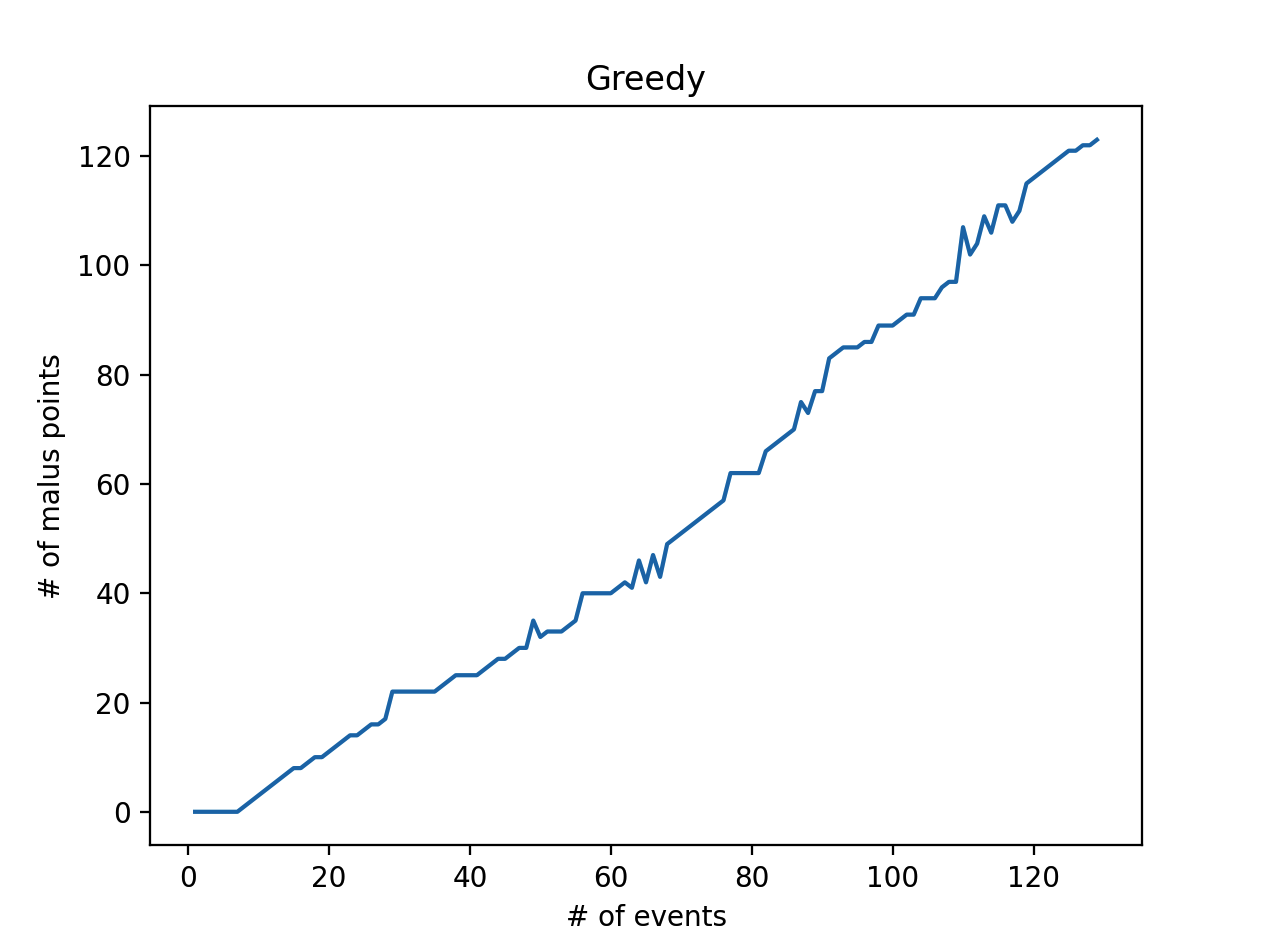
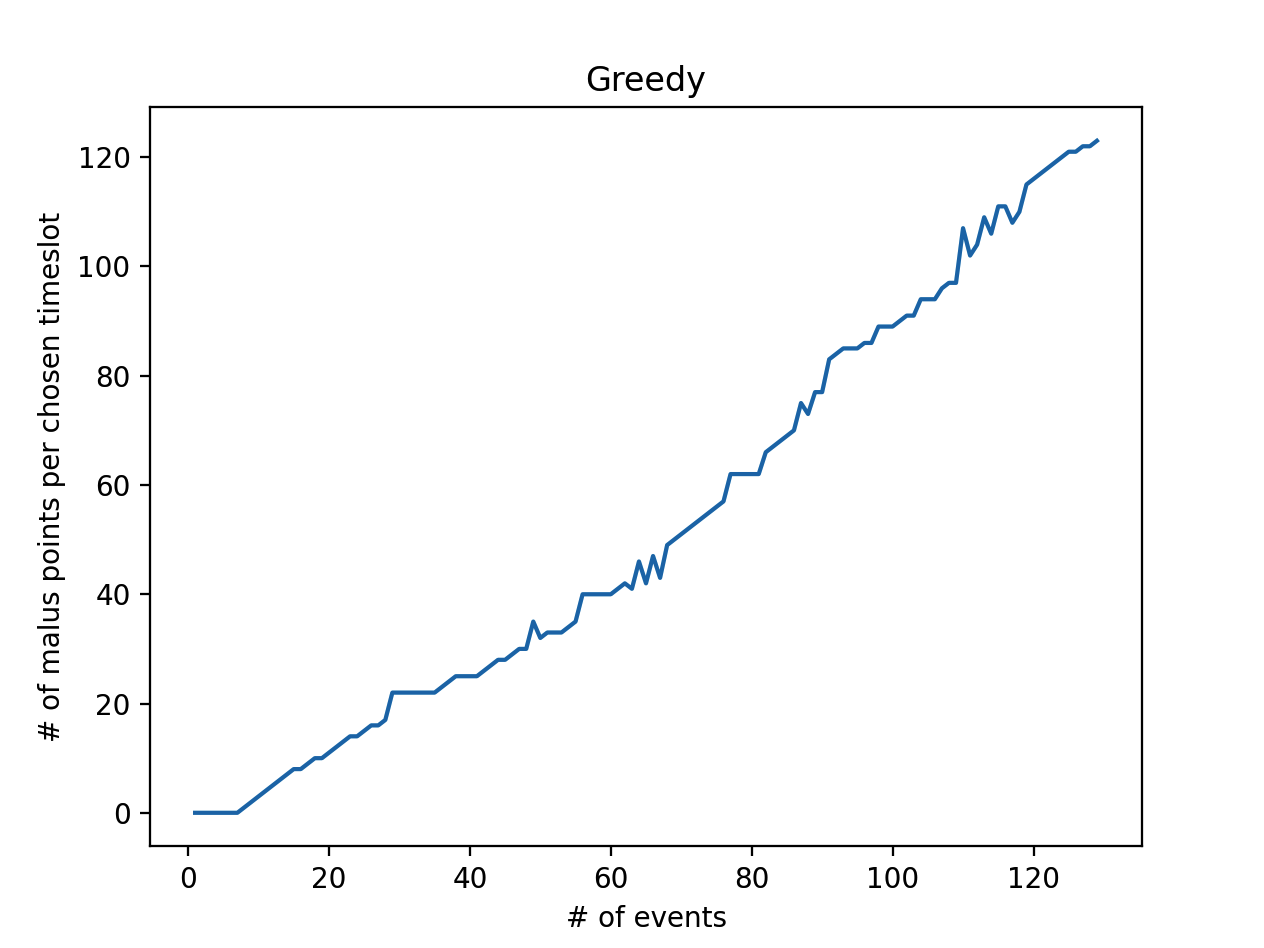
fix: adjust incorrect timeslot check for 17 timeframe; improved greedy results

diff --git a/code/algorithms/greedy.py b/code/algorithms/greedy.py
@@ -30,7 +30,7 @@ class Greedy(Algorithm):
         Plot the malus scores that we gathered when the algortihm ran.
         """
         plt.xlabel('# of events')
-        plt.ylabel('# of malus points')
+        plt.ylabel('# of malus points per chosen timeslot')
 
         scores = [stat['malus_score'] for stat in self.statistics]
         total_events = len(scores)
@@ -200,20 +200,12 @@ class RandomGreedy(Greedy):
     rather than the best one.
     """
 
-    def get_next_event(self, events: list[Event]) -> Event:
-        """
-        Get a random item from the events list.
-        """
-        if random.random() < 0.01:
-            return events.pop(random.randrange(len(events)))
-        else:
-            return super().get_next_event(events)
-
     def find_timeslot_possibility(self, event: Event) -> dict[str, Any]:
         """
         Get a random possible timeslot option.
         """
-        if random.random() < 0.01:
-            return random.choice(self.get_possibilities(event))
+        possibilities = [p for p in self.get_possibilities(event) if p['malus_score'] == 0]
+        if len(possibilities) > 0:
+            return random.choice(possibilities)
         else:
             return super().find_timeslot_possibility(event)

diff --git a/code/algorithms/hillclimber.py b/code/algorithms/hillclimber.py
@@ -1,7 +1,7 @@
 import copy
 import logging
 import random
-from code.algorithms.greedy import Greedy
+from code.algorithms.greedy import RandomGreedy
 import matplotlib.pyplot as plt
 
 from code.entities.event import Event
@@ -10,10 +10,10 @@ from code.entities.timetable import Timetable
 from code.utils.enums import Weekdays
 
 
-class HillClimber(Greedy):
+class HillClimber(RandomGreedy):
     """
     Hill climber algorithm implementation which grabs a random state and accepts
-    it if it better than the previous state.
+    it if it is equally good or better than the previous state.
     """
 
     def __init__(self) -> None:
@@ -51,8 +51,9 @@ class HillClimber(Greedy):
         y = [stat['violations'] + stat['malus_score'] for stat in self.statistics]
         plt.plot(x, y)
 
+        lowest_malus_score = min([stat['malus_score'] for stat in self.statistics])
         parent_class_name = self.__class__.__bases__[0].__name__
-        plt.title(f'Hill climber based on {parent_class_name} solution')
+        plt.title(f'Hill climber based on {parent_class_name} solution (iterations = {max(x)}; malus score = {lowest_malus_score})')
         plt.show()
 
     def move_random_event(self) -> None:

diff --git a/code/entities/timeslot.py b/code/entities/timeslot.py
@@ -101,8 +101,9 @@ class Timeslot:
         """
         points = 0
 
-        # The 17:00 - 19:00 timeslot adds 5 malus points.
-        if self.value == 17:
+        # The 17:00 timeslot adds 5 points if the largest room is booked.
+        largest_rooms = [event.room.is_largest for event in self.events]
+        if self.value == 17 and any(largest_rooms):
             points += 5
 
         # Add one malus punt for each overlapping course each student has.

diff --git a/docs/3-greedy-algorithm/README.md b/docs/3-greedy-algorithm/README.md
@@ -2,9 +2,8 @@
 
 Na een implementatie te hebben afgerond voor een random algoritme, is het nu
 tijd om een greedy implementatie te doen. Ik heb er voor gekozen om een
-constructief greedy algoritme te implementeren, omdat het hier bij een
-lesrooster handiger is om alle mogelijke opties af te gaan en dan te zien welke
-de minste maluspunten heeft.
+constructief greedy algoritme te implementeren, omdat voor mijn gevoel dit voor
+de meest hand liggende keuze is.
 
 De pseudo code voor mijn constructieve algoritme is als volgt:
 -  haal alle activiteiten op die ingepland moeten worden van alle vakken
@@ -12,7 +11,7 @@ De pseudo code voor mijn constructieve algoritme is als volgt:
    vak)
 -  zolang er activiteiten zijn die ingeplant moeten worden:
     - pak de eerste activiteit
-    - vind het beste tijdslot (oplopend gesorteerd op aantal violations + maluspunten + tijdslot + dag vd week)
+    - vind het beste tijdslot (gesorteerd op aantal violations + maluspunten + tijdslot + dag vd week)
     - plaats de activiteit in de eerste de beste oplossing
 
 Ook bedacht ik mij dat het logischer zou zijn om van links naar rechts in te
@@ -29,36 +28,40 @@ we al deze mogelijkheden op het laagste aantal violations met laagste aantal
 maluspunten en vervolgens nog op vroegste tijdslot en day van de week. Dit geeft
 ons het beste eerst opkomende tijdslot met de minste maluspunten.
 
-Hieronder is een versie te zien zonder violations met 120 maluspunten. Dit toont
+Hieronder is een versie te zien zonder violations met 205 maluspunten. Dit toont
 aan dat het greedy algoritme het aantal maluspunten flink verminderd ten
 opzichte van het random algortime dat 1200+ maluspunten opleverde.
 
 ![heatmap with timetable results](./heatmap.png)
 
 Hieronder nog een grafiek van hoe greedy alle 129 activiteiten inplant in een
-heel rooster en hoe de maluspunten lopen.
+heel rooster. De y-as toont het aantal maluspunten voor het zoveelste event op
+de x-as.
 
 ![line graph showing 129 events being scheduled](./stats.png)
 
 # Random Greedy
 
 Na het implementeren van een greedy algoritme heb ik ook een *random  greedy*
-geïmplementeerd. Een activiteit wordt nu random gekozen uit de lijst van
-mogelijke activiteiten die nog niet ingeroosterd zijn, in plaats van altijd de
-activiteit te nemen die de meeste activiteiten in moet plannen. Ook wordt van
-alle mogelijke tijdslot opties voor een activiteit nu een willekeurig tijdslot
-gekozen. Dit was erg veel spelen met de random waardes, maar tot nu toe krijg ik
-*niet* iets beters dan het greedy algortime zelf.
+geïmplementeerd. Toen ik keek naar de grafiek van het greedy algoritme, toen
+viel het mij op dat voor de eerste ±22 events de malus score 0 is. Ik bedacht
+mij direct dat ik dit kan gebruiken in het random greedy algoritme, want als we
+meerdere opties hebben die allemaal 0 zijn in malus score dan kunnen we een
+random optie hiervan pakken. Hoewel ik meerdere opties getest heb, blijkt dit
+toch wel de beste optie te zijn die het aantal maluspunten t.o.v. het resultaat
+van greedy bijna halveert.
 
-Hieronder een kort overzicht met wat ik deels geprobeerd heb met 10 iteraties
-per test:
-- 100% greedy met 100% random (avg malus score: 683)
-- 50% greedy met 50% random (avg malus score: 381)
-- 90% greedy met 10% random (avg malus score: 223)
-- 99% greedy met 1% random (avg malus score: 131)
+Hieronder is te zien dat het random greedy algoritme bij de eerste ±38
+activiteiten een malus score van 0 blijft behouden, dat is positiever dan
+greedy. Hoe langer het lager blijft, hoe beter!
 
-Het lijkt erop dat hoe meer random erbij komt, hoe slechter de score wordt. Op
-zich logisch, omdat het greedy algoritme over het algemeen de beste keuze pakt.
+![random greedy graph](./stats-random-greedy.png)
+
+Hieronder is nog een de heatmap te zien waarbij we zien dat de uiteindelijke
+malus score van random greedy 111 was, dat is **46% minder maluspunten** dan
+greedy!
+
+![random greedy heatmap](./heatmap-random-greedy.png)
 
 ---
 

diff --git a/docs/4-hillclimber/README.md b/docs/4-hillclimber/README.md
@@ -21,24 +21,29 @@ Zoals te zien is heeft het verwisselen wel wat effect, maar niet veel na een
 bepaald aantal iteraties. Het omwisselen van twee activiteiten geeft meer
 speling in de grafiek, wat dus betekent dat dit veel invloed heeft. Ik heb dus
 bedacht om in de hill climber het volgende te doen:
+
 - 40% kans om een activiteit naar een random ander tijdslot te doen (in mogelijk een andere zaal)
 - 40% kans om twee activiteiten om te wisselen
 - 20% kans om studenten te verwisselen
 
-Bij hill climber beginnen we met "een oplossing". Ik heb zowel de randomizer als
-het greedy algoritme gebruikt algoritme voor mijn initiële oplossing. Omdat mijn
-greedy een betere oplossing geeft (met minder aantal maluspunten) heb ik ervoor
-gekozen om de hill climber toe te passen op een greedy oplossing om zo een nóg
-betere oplossing te genereren.
+Bij hill climber beginnen we met "een oplossing". Ik heb de hill climber getest
+op een oplossing van de randomizer, greedy en random greedy om zo het effect te
+kunnen zien voor een oplossing met een hele hoge malus score (randomizer) of een
+oplossing die al redelijk laag begint zoal de greedy of random greedy.
 
-Hieronder is te zien hoe de hill climber te werk gaat met zowel de randomizer
-als het greedy algoritme. Naar mate het aantal iteraties toe neemt, wordt de som
-van violations en maluspunten minder en minder voor beide versies.
-
-![hill climber based using greedy solution](./hillclimber-greedy.png)
+Hieronder is te zien hoe de hill climber te werk gaat voor alle algoritmen. Naar
+mate het aantal iteraties toe neemt, wordt de som van violations en maluspunten
+minder en minder bij elk algoritme. Bij elk algoritme was het local optimum
+bereikt.
 
 ![hill climber based using randomizer solution](./hillclimber-randomizer.png)
 
-De greedy versie begon met een malus score van 118 en eindigde met 35 en de
-randomizer versie begon met 1274 en eindigde met 51 waarbij beide versies
-uiteindelijk het local optimum hadden bereikt.
+![hill climber based using greedy solution](./hillclimber-greedy.png)
+
+![hill climber based using random greedy solution](./hillclimber-random-greedy.png)
+
+Uit bovenstaande drie resultaten voor deze algoritmen kunnen we concluderen dat
+de hill climber erg effectief is in het minimaliseren van de maluspunten,
+ongeacht hoe hoog je begint. De randomizer begon met 1272 maluspunten, greedy
+met 205 en random greedy met 98 en vervolgens zijn ze allemaal gestopt op 50
+maluspunten of minder.

diff --git a/docs/2-baseline/README.md b/docs/2-baseline/README.md
@@ -84,7 +84,7 @@ omdat het kan.
 Vervolgens heb ik een *random walk* geïmplementeerd die 1 oplossing genereert en
 vervolgens n-aantal keer de volgende data verzamelt:
 - wissel twee random ingeplande activiteiten met elkaar om
-- studenten verwisselen
+- studenten verwisselen binnen alle activiteiten van één willekeurig vak
 - twee random activiteiten omwisselen én studenten verwisselen
 
 Hier heb ik niet gekeken naar het aantal retries, maar naar het aantal
